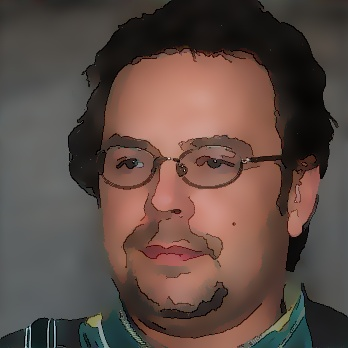
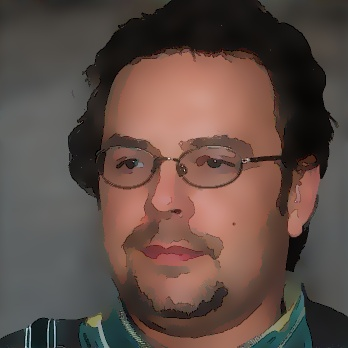
fix kernel

diff --git a/filtering.py b/filtering.py
@@ -23,7 +23,10 @@ from color_transfer import convert_color_space_RGB_to_GRAY
 TWO_PI = 2.0 * math.pi
 MAX_THREAD = 6
 MAX_PROCESS_NUM = 6
-EPSILON = 1e-8
+PI_1_d_2 = np.pi /2
+PI_1_d_1 = np.pi 
+PI_3_d_4 = 3*np.pi /4
+PI_2_d_1 = 2*np.pi 
 
 
 # -------------------------------------------------------------------------------------------------------------------- #
@@ -77,19 +80,22 @@ def median_filter(image, kernel_size=3):
 # BILATERAL FILTERING
 # -------------------------------------------------------------------------------------------------------------------- #
 def run_bilateral_filter(start_col, end_col, window_width, thread_id, input_image, sigma_space, sigma_intensity):
-    def gaussian_kernel(r2, sigma):
-        return (np.exp(-0.5 * r2 / sigma ** 2) * 3).astype(int) * 1.0 / 3.0
+    # def gaussian_kernel(data, sigma):
+    #     return (1/(TWO_PI*sigma*sigma))*np.exp(-((data)/(2.0*sigma**2)))
 
-    sum_fr = np.ones(input_image.shape) * EPSILON
-    sum_gs_fr = input_image * EPSILON
+    def our_kernel(data, sigma):
+        return np.round(np.exp(-0.5*((data)/(sigma**2)))).astype(np.float32)
+        
+    sum_fr = np.zeros(input_image.shape)
+    sum_gs_fr = np.zeros(input_image.shape)  # input_image * EPSILON
 
     for w_col in range(start_col, end_col):
         for w_row in range(-window_width, window_width + 1):
-            gs = gaussian_kernel(w_col ** 2 + w_row ** 2, sigma_space)
+            gs = our_kernel(w_col ** 2 + w_row ** 2, sigma_space)
 
             w_image = np.roll(input_image, [w_row, w_col], axis=[0, 1])
 
-            fr = gs * gaussian_kernel((w_image - input_image)
+            fr = gs * our_kernel((w_image - input_image)
                                       ** 2, sigma_intensity)
 
             sum_gs_fr += w_image * fr
@@ -97,10 +103,10 @@ def run_bilateral_filter(start_col, end_col, window_width, thread_id, input_imag
 
     pickle.dump(sum_fr, open(
         os.path.join(os.path.dirname(os.path.abspath(__file__)), 'bilateralsum_fr{0}.tmp'.format(thread_id)), 'wb'),
-                pickle.HIGHEST_PROTOCOL)
+        pickle.HIGHEST_PROTOCOL)
     pickle.dump(sum_gs_fr, open(
         os.path.join(os.path.dirname(os.path.abspath(__file__)), 'bilateralsum_gs_fr{0}.tmp'.format(thread_id)), 'wb'),
-                pickle.HIGHEST_PROTOCOL)
+        pickle.HIGHEST_PROTOCOL)
 
 
 def bilateral_filter(input_image, sigma_space=10.0, sigma_intensity=0.1, radius_window_width=1):
@@ -178,7 +184,8 @@ def run_mean_filter(start_col, end_col, window_width, thread_id, input_image):
 
     pickle.dump(
         sum_fr,
-        open(os.path.join(os.path.dirname(os.path.abspath(__file__)), 'mean_sum_fr{0}.tmp'.format(thread_id)), 'wb'),
+        open(os.path.join(os.path.dirname(os.path.abspath(__file__)),
+             'mean_sum_fr{0}.tmp'.format(thread_id)), 'wb'),
         pickle.HIGHEST_PROTOCOL
     )
 

diff --git a/our_algorithm.py b/our_algorithm.py
@@ -4,6 +4,7 @@ from color_transfer import convert_color_space_RGB_to_GRAY, convert_color_space_
 import timeit
 import cv2
 import numpy as np
+import math
 
 
 def increase_dim(e, I):
@@ -17,7 +18,9 @@ def increase_dim(e, I):
 
 def landscape_pictures(I):
     start = timeit.default_timer()
-    k = 7
+    k = round(math.sqrt(I.shape[0]*I.shape[1])/500)*7
+    if k < 1:
+        k = 1
     for i in range(3):
         I = bilateral_filter(I, k, k / 100, k)
 
@@ -35,7 +38,10 @@ def landscape_pictures(I):
 
 def portrait_pictures(I):
     start = timeit.default_timer()
-    k = 5
+    k = round(math.sqrt(I.shape[0]*I.shape[1])/500)*5
+    if k < 1:
+        k = 1
+
     for i in range(5):
         I = bilateral_filter(I, k, k / 100, k)
 
@@ -50,3 +56,11 @@ def portrait_pictures(I):
 
     return I
 
+if __name__ == '__main__':
+    img_path = './img_test/test1.jpg'
+
+    I = cv2.imread(img_path, cv2.COLOR_BGR2RGB).astype('float32')
+
+    I = portrait_pictures(I)
+
+    cv2.imwrite('./img_test/test1_result.jpg', I)
